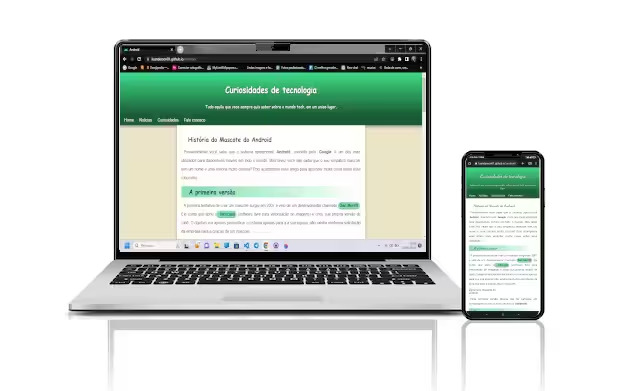
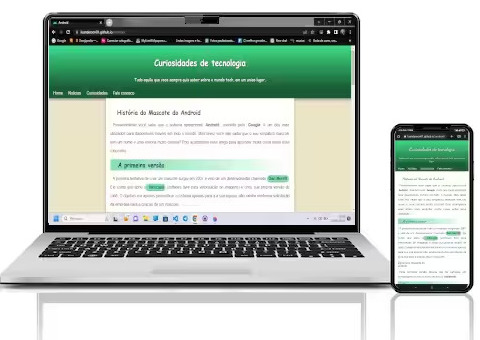
coloquei o projeto android

diff --git a/index.html b/index.html
@@ -58,10 +58,24 @@
     </section>
 
     <article id="projetos">
-        <a href="https://luanderson01.github.io/android/" target="_blank">Android</a>
 
         
-        <a href="https://luanderson01.github.io/android/" target="_blank"><img src="imagens/projeto-android.jpeg" alt=""></a>
+        <picture>
+            <a href="https://luanderson01.github.io/android/" target="_blank"><img src="imagens/projeto-android.jpeg" alt=""></a>
+
+            <source media="(max-width: 850px )" srcset="imagens/projeto-android-p.jpeg" type="image/jpeg" alt="imagem do projeto android no celular e no notbook" >
+        
+        </picture>
+
+        <a href="https://luanderson01.github.io/android/" target="_blank">Android</a>
+        <p>
+            Lorem, ipsum dolor sit amet consectetur adipisicing elit. Tenetur nulla ea eum, repellat laboriosam voluptates voluptatum natus animi repellendus numquam expedita dolorum! Commodi necessitatibus quidem deserunt itaque voluptate consequuntur tenetur?
+        </p>
+
+
+
+
+
     </article>
 
     

diff --git a/style.css b/style.css
@@ -43,7 +43,7 @@ header h2 {
   
   font-family: var(--font1);
   color: var(--cor4);
-  margin-left: 100px;
+  margin-left: 30px;
   padding-top: 30px;
 }
 
@@ -145,18 +145,28 @@ section{
 }
 
 #projetos{
-  background-color: var(--cor6);
-  height: 200px;
+  background-color: var(--cor3);
+  max-height: 220vh;
   min-width: 280px;
-  max-width: 500px;
-  padding: 30px;
+  max-width: 100vw;  
   margin-top: 30px;
   border-radius: 15px;
   text-align: center , bottom;
-  font-size: 3em;
-  
-
+  font-size: 1em; 
+  margin-bottom: 30px;
+  padding: 30px;
+  text-align: center;
 }
+
+
+
+#projetos img{
+  max-width: 35vw;
+  
+  display:block ;
+  margin: auto;
+}
+
 
 
 
